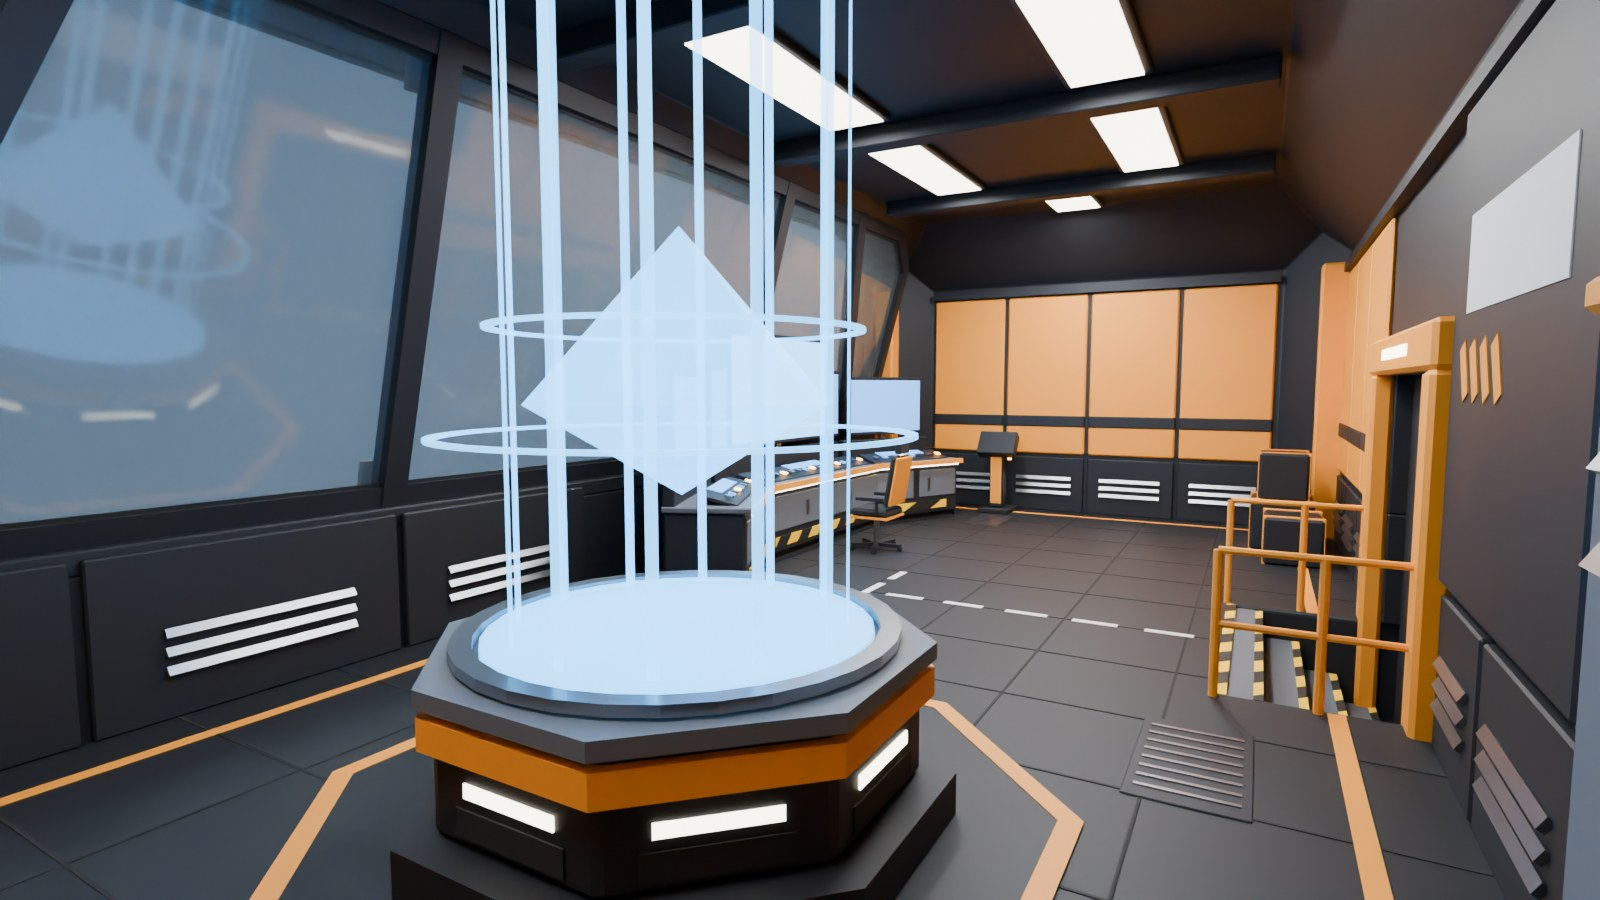
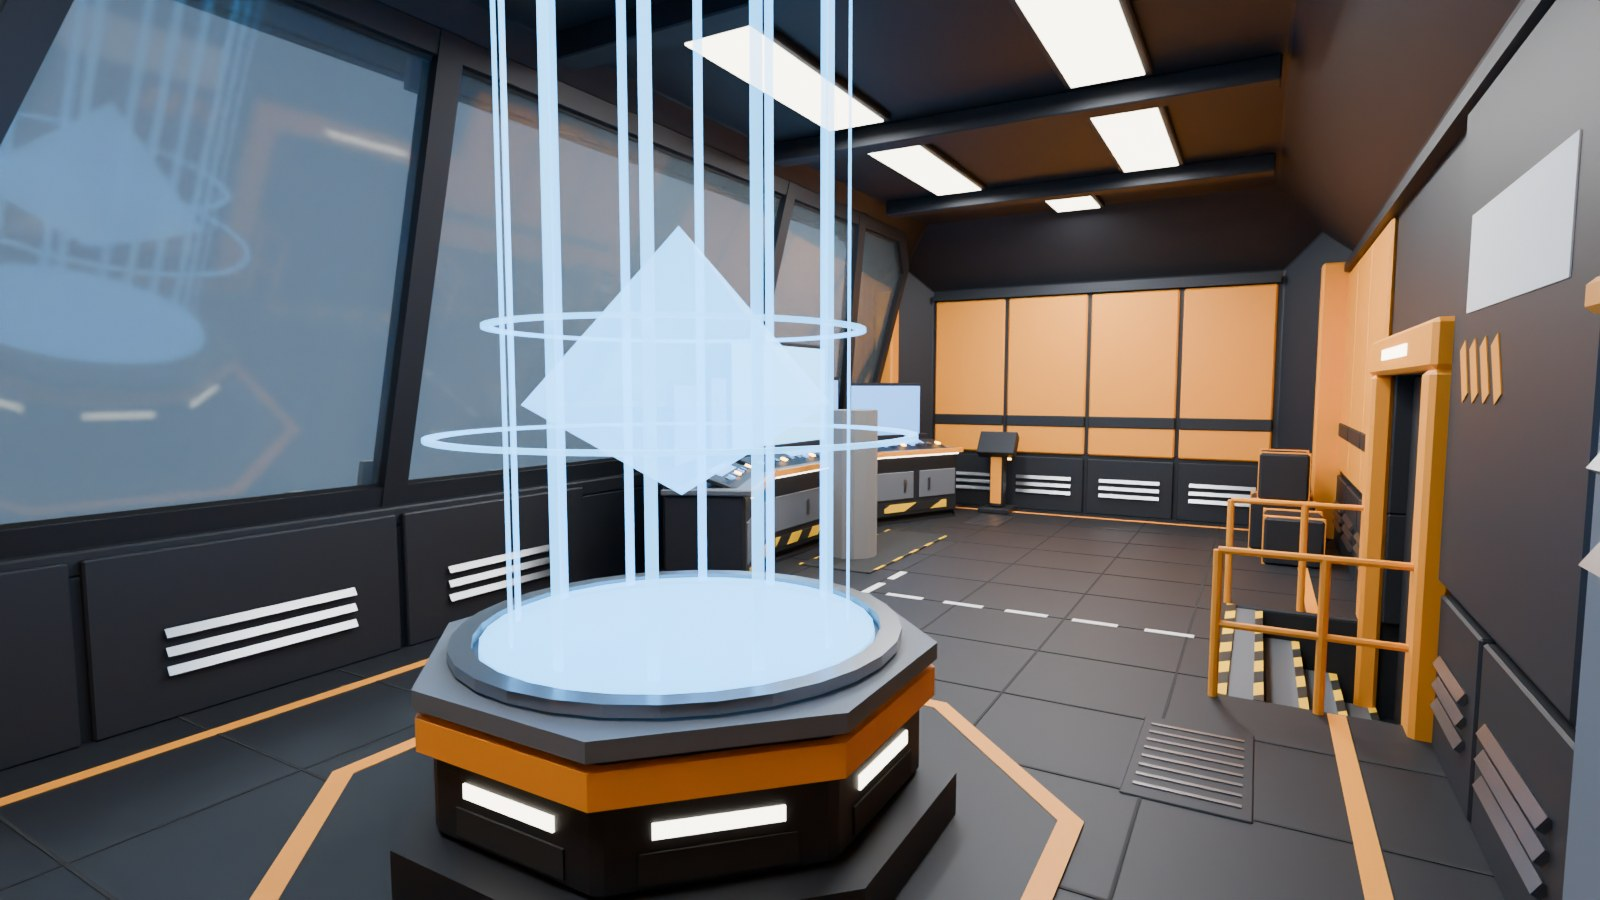
art: Command Center interior renders from nine viewpoints
Main, alternative, entrance, holo platform, back-left and front-right
corners, console front and side, plan cutaway; contact sheet (32 spp).

Claude-Session: https://claude.ai/code/session_013wQgHAdy8C5AxfwbzX9RGJ

Changed region(s): [[0.4062, 0.4044, 0.625, 0.6533], [0.5, 0.3733, 0.5312, 0.4044], [0.3125, 0.6222, 0.3438, 0.6533]]

diff --git a/art/command_center/README.md b/art/command_center/README.md
@@ -84,7 +84,7 @@
 | Прочее | стоячий терминал у левой стены, ящики FICSIT в заднем левом углу, панель с логотипом FICSIT у двери, оранжевая рама двери изнутри с подсветкой, ограждение лестничного приямка и полосы hazard на ступенях |
 
 `USE_ZONE_console` (зона E) — перед пультом, 6 × 1,3 × 2,2 м. Для рендера интерьера в сцену добавляются area-светильники
-`PREVIEW_area_*` (не меши, не экспортируются). Капсула игрока 1,8 м `REF_player_inside` стоит у пульта и видна на рендерах как мерка. Ракурсы `21_interior_main`, `22_interior_alt` (сняты до удаления кресла), `23_interior_console`, `24_interior_console_side`
+`PREVIEW_area_*` (не меши, не экспортируются). Капсула игрока 1,8 м `REF_player_inside` стоит у пульта и видна на рендерах как мерка. Ракурсы `21_interior_main`, `22_interior_alt` , `23_interior_console`, `24_interior_console_side`
 рендерятся только по запросу (`--shots`).
 
 ## Слоты материалов
@@ -160,7 +160,7 @@ blender -b -P build_model.py -- --out ../export --render ../renders/stage3
 | `blender/check_fit.py` | проверка посадки на 2 × 1 фундамента: всё в 16 × 8, ничего ниже z = 0; код выхода 1 при нарушении |
 | `blender/build_blockout.py` | блокаут этапа 1, сохранён для сравнения |
 | `export/` | FBX для UE, GLB для просмотра: `SM_CommandCenter*` и `SM_CommandCenter_Blockout*` |
-| `renders/stage4/` | интерьер: главный ракурс, обратный ракурс, вид на пульт |
+| `renders/stage4/` | интерьер (32 сэмпла): главный и обратный ракурс, вход от лестницы, голоплатформа, задний левый и передний правый угол, пульт фронтально и сбоку, план сверху с отсечением выше 4,5 м; сводный лист `00_interior_sheet` |
 | `renders/turnaround/` | облёт: 8 перспективных ракурсов через 45° (`T000_front` … `T315_front_left`), вид сверху, 4 ортогональных вида, сводные листы `00_turnaround_sheet` и `00_ortho_sheet` (64 сэмпла). **Снят до прохода 10** (старая дверь и вентблок крыши); после прохода 10 обновлены только `stage3/04_back`, `13_roof`, `06_top`. Полный перерендер — по запросу |
 | `renders/stage3/`, `renders/blockout/` | 3/4 спереди, сзади, слева и справа, вид на крышу, четыре ортогональных вида, крупные планы узла связи и цоколя, сверху, интерьер, сравнения с концептом, крупный план фронта |
 | `reference/` | пакет референсов (JPG ≤ 2400 px, без изменений по содержанию) и `README_modeling.md` |
